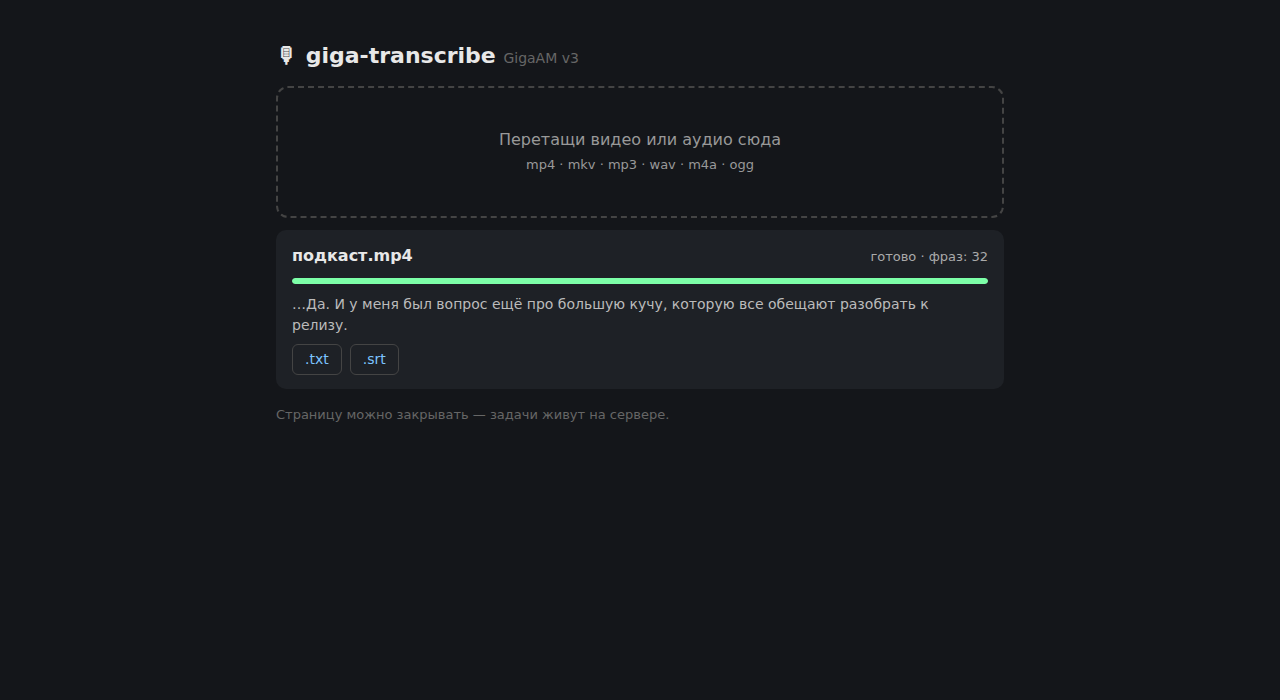
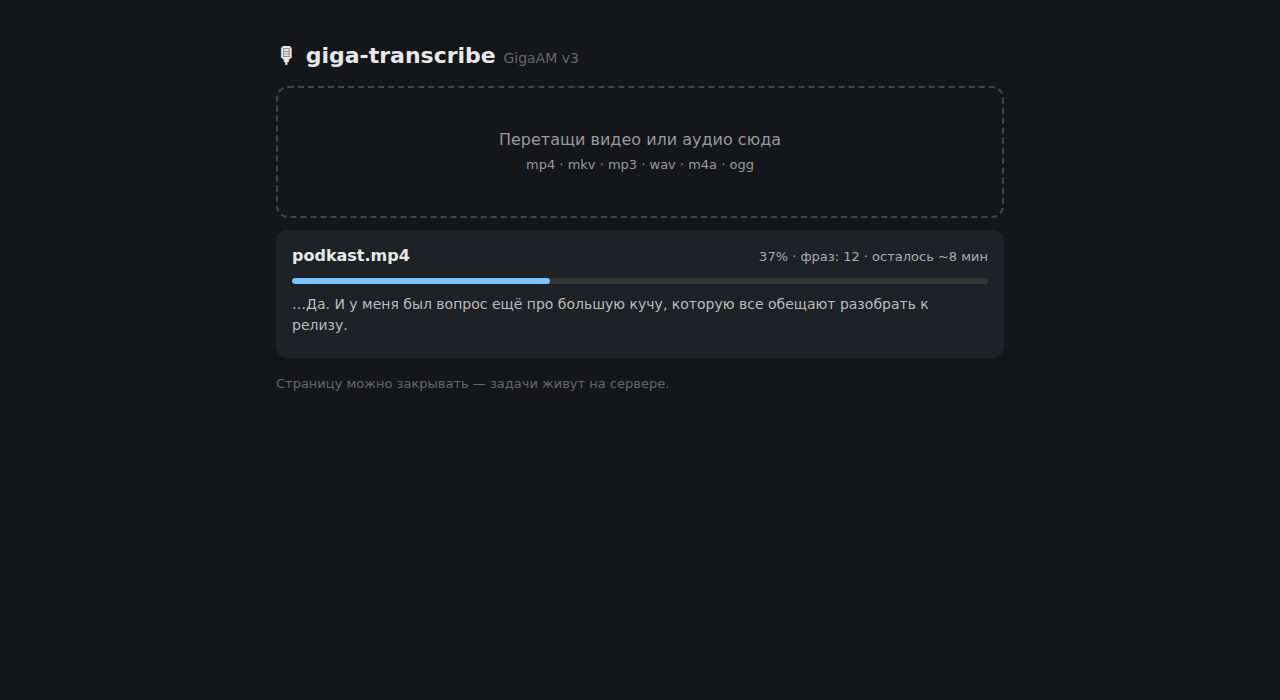
ETA по темпу задачи у прогресс-бара, без цифр про железо в README

Changed region(s): [[0.2188, 0.36, 0.7812, 0.42], [0.2188, 0.51, 0.5312, 0.6]]

diff --git a/static/index.html b/static/index.html
@@ -50,12 +50,25 @@ async function render(j) {
   if (!el) { el = document.createElement('div'); el.id = 'j'+j.id; el.className = 'job'; box.prepend(el); }
   const r = await (await fetch('/jobs/'+j.id)).json();
   el.className = 'job ' + (r.status === 'done' ? 'done' : r.status === 'error' ? 'error' : '');
-  const st = {queued:'в очереди', decoding:'декодирую…', transcribing:`${r.progress}% · фраз: ${r.phrases}`, done:`готово · фраз: ${r.phrases}`, error:'ошибка: '+r.error}[r.status] || r.status;
+  const st = {queued:'в очереди', decoding:'декодирую…', transcribing:`${r.progress}% · фраз: ${r.phrases}${eta(r)}`, done:`готово · фраз: ${r.phrases}`, error:'ошибка: '+r.error}[r.status] || r.status;
   el.innerHTML = `<div class="top"><span class="name">${esc(j.filename)}</span><span class="st">${esc(st)}</span></div>
     <div class="bar"><div style="width:${r.status==='done'?100:r.progress}%"></div></div>
     ${r.preview ? `<div class="preview">${esc(r.preview)}</div>` : ''}
     ${r.status==='done' ? `<div class="btns"><a href="/jobs/${j.id}/text" download="${esc(j.filename)}.txt">.txt</a><a href="/jobs/${j.id}/srt" download="${esc(j.filename)}.srt">.srt</a></div>` : ''}`;
   if (r.status !== 'done' && r.status !== 'error') setTimeout(() => render(j), 2000);
+}
+// ETA from this job's own pace (done_sec audio per elapsed wall time),
+// not a global benchmark — hardware varies wildly. Shown once past 5%.
+const _t0 = {};
+function eta(r) {
+  if (r.status !== 'transcribing' || !r.done_sec || r.progress < 5) return '';
+  const now = Date.now() / 1000;
+  if (!_t0[r.id]) _t0[r.id] = now;
+  const el = now - _t0[r.id];
+  if (el < 3) return '';
+  const left = Math.round((r.total_sec - r.done_sec) / (r.done_sec / el));
+  if (left < 5 || !isFinite(left)) return '';
+  return ' · осталось ~' + (left >= 90 ? Math.round(left / 60) + ' мин' : left + ' с');
 }
 function esc(s){return (s||'').replace(/[&<>"]/g, c => ({'&':'&amp;','<':'&lt;','>':'&gt;','"':'&quot;'}[c]));}
 fetch('/jobs').then(r => r.json()).then(js => js.forEach(render));

diff --git a/src/app.py b/src/app.py
@@ -48,7 +48,8 @@ def get_engine() -> Engine:
 def job_info(j: Job) -> dict:
     pct = round(j.done_sec / j.total_sec * 100) if j.total_sec else 0
     return {"id": j.id, "filename": j.filename, "status": j.status,
-            "progress": pct, "phrases": len(j.phrases), "error": j.error}
+            "progress": pct, "phrases": len(j.phrases), "error": j.error,
+            "total_sec": round(j.total_sec, 1), "done_sec": round(j.done_sec, 1)}
 
 
 def check_ext(filename: str) -> str:

diff --git a/README.md b/README.md
@@ -8,9 +8,7 @@
 - файлы любой длины — хоть часовые лекции и подкасты (нарезка на фразы через Silero VAD)
 - текст + субтитры `.srt` / `.vtt` с таймингами
 - OpenAI-совместимый endpoint — можно подменить `api.openai.com` своим сервером
-- веб-морда: перетащил файл, страницу можно закрывать — задача досчитается на сервере
-
-Скорость (замер на Ryzen 5 5600U, CPU): час аудио ≈ 8–9 минут.
+- веб-морда: перетащил файл, видишь прогресс с примерным временем до конца, страницу можно закрывать — задача досчитается на сервере
 
 ## Установка
 
